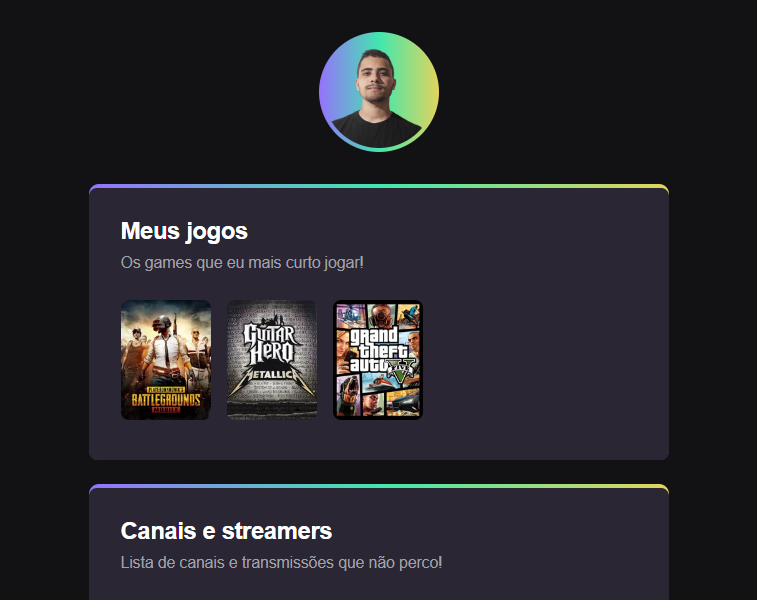
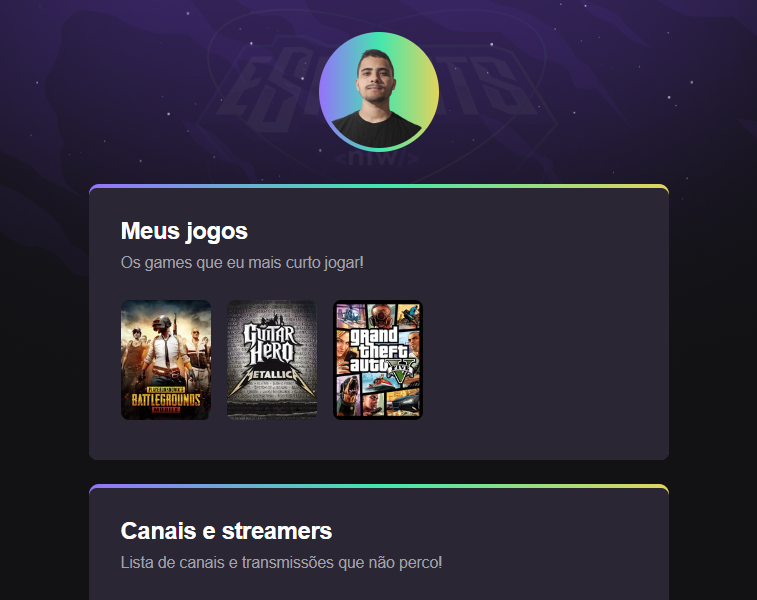
correção do bug do background

Changed region(s): [[0.0, 0.0, 1.0, 0.33]]

diff --git a/assets/css/style.css b/assets/css/style.css
@@ -9,7 +9,7 @@ ul {
 }
 
 body {
-    background-image: url(./assets/bg.jpg);
+    background-image: url(/assets/img/bg.jpg);
     background-position: top center;
     background-size: 100% auto;
     background-repeat: no-repeat;
